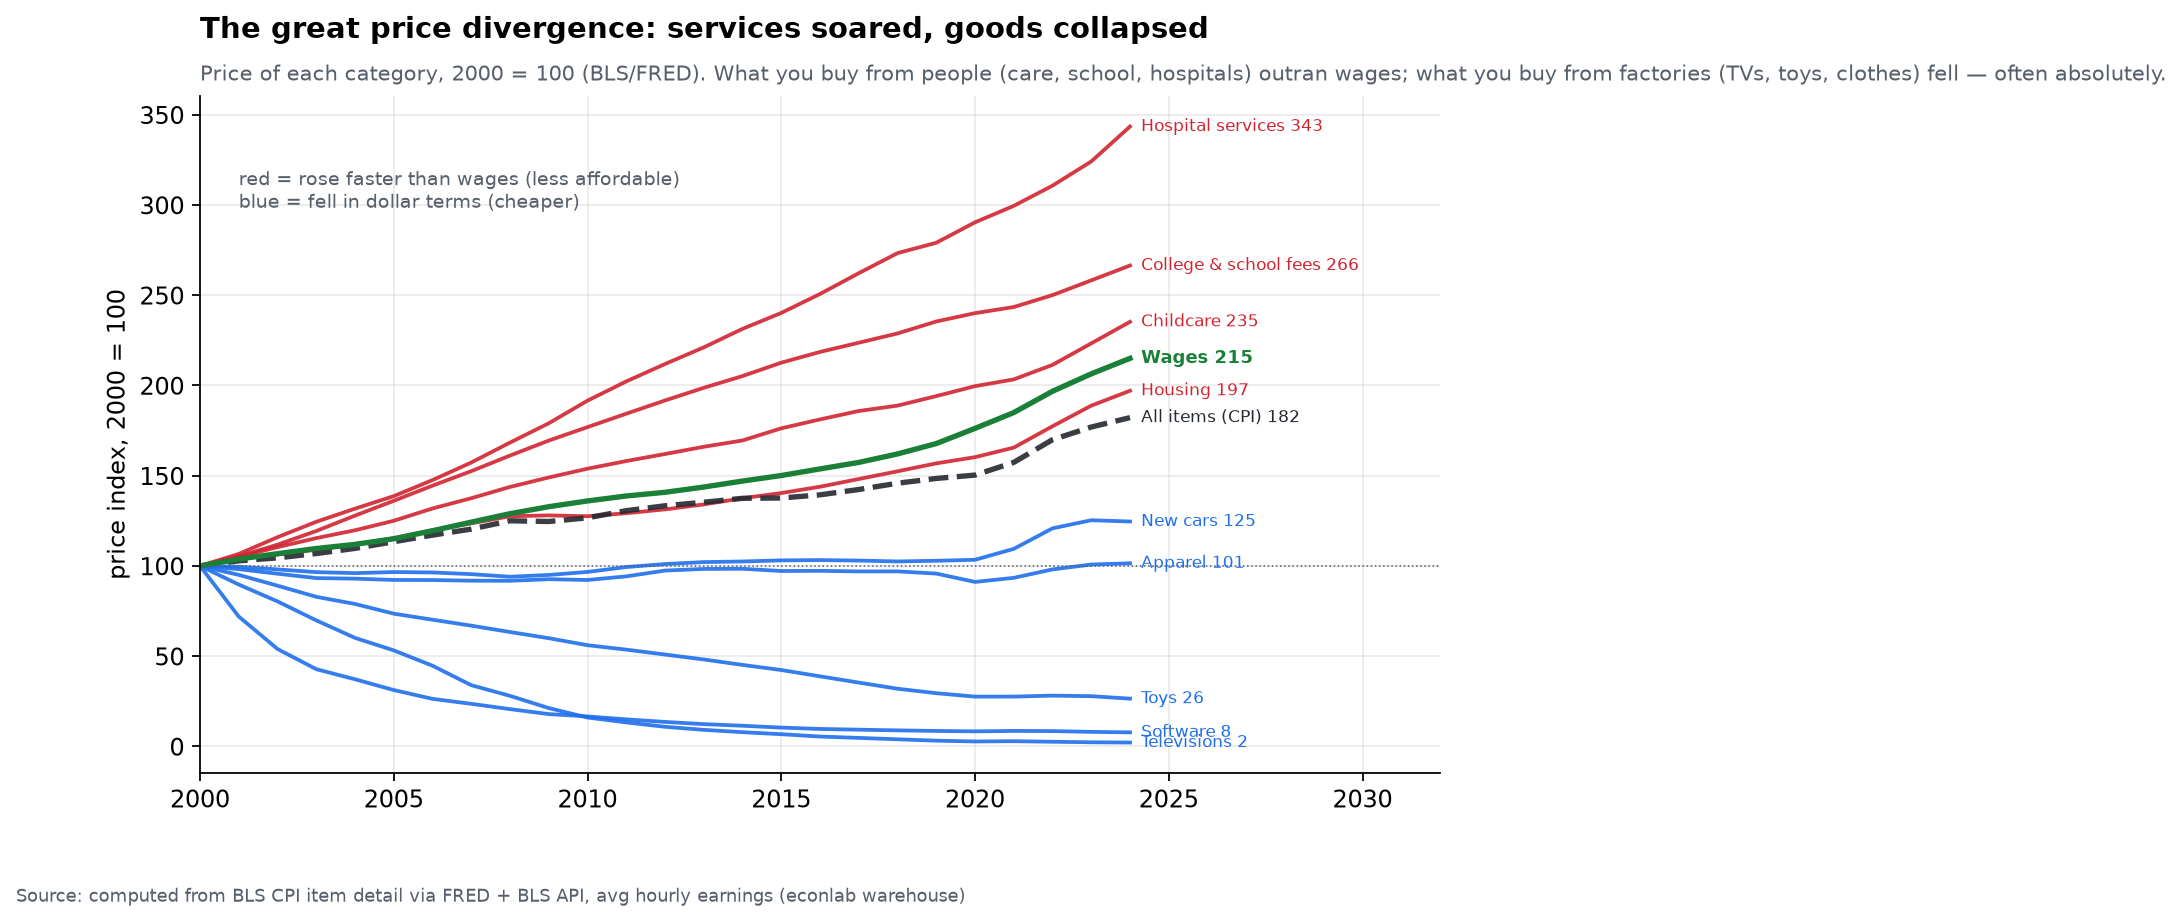
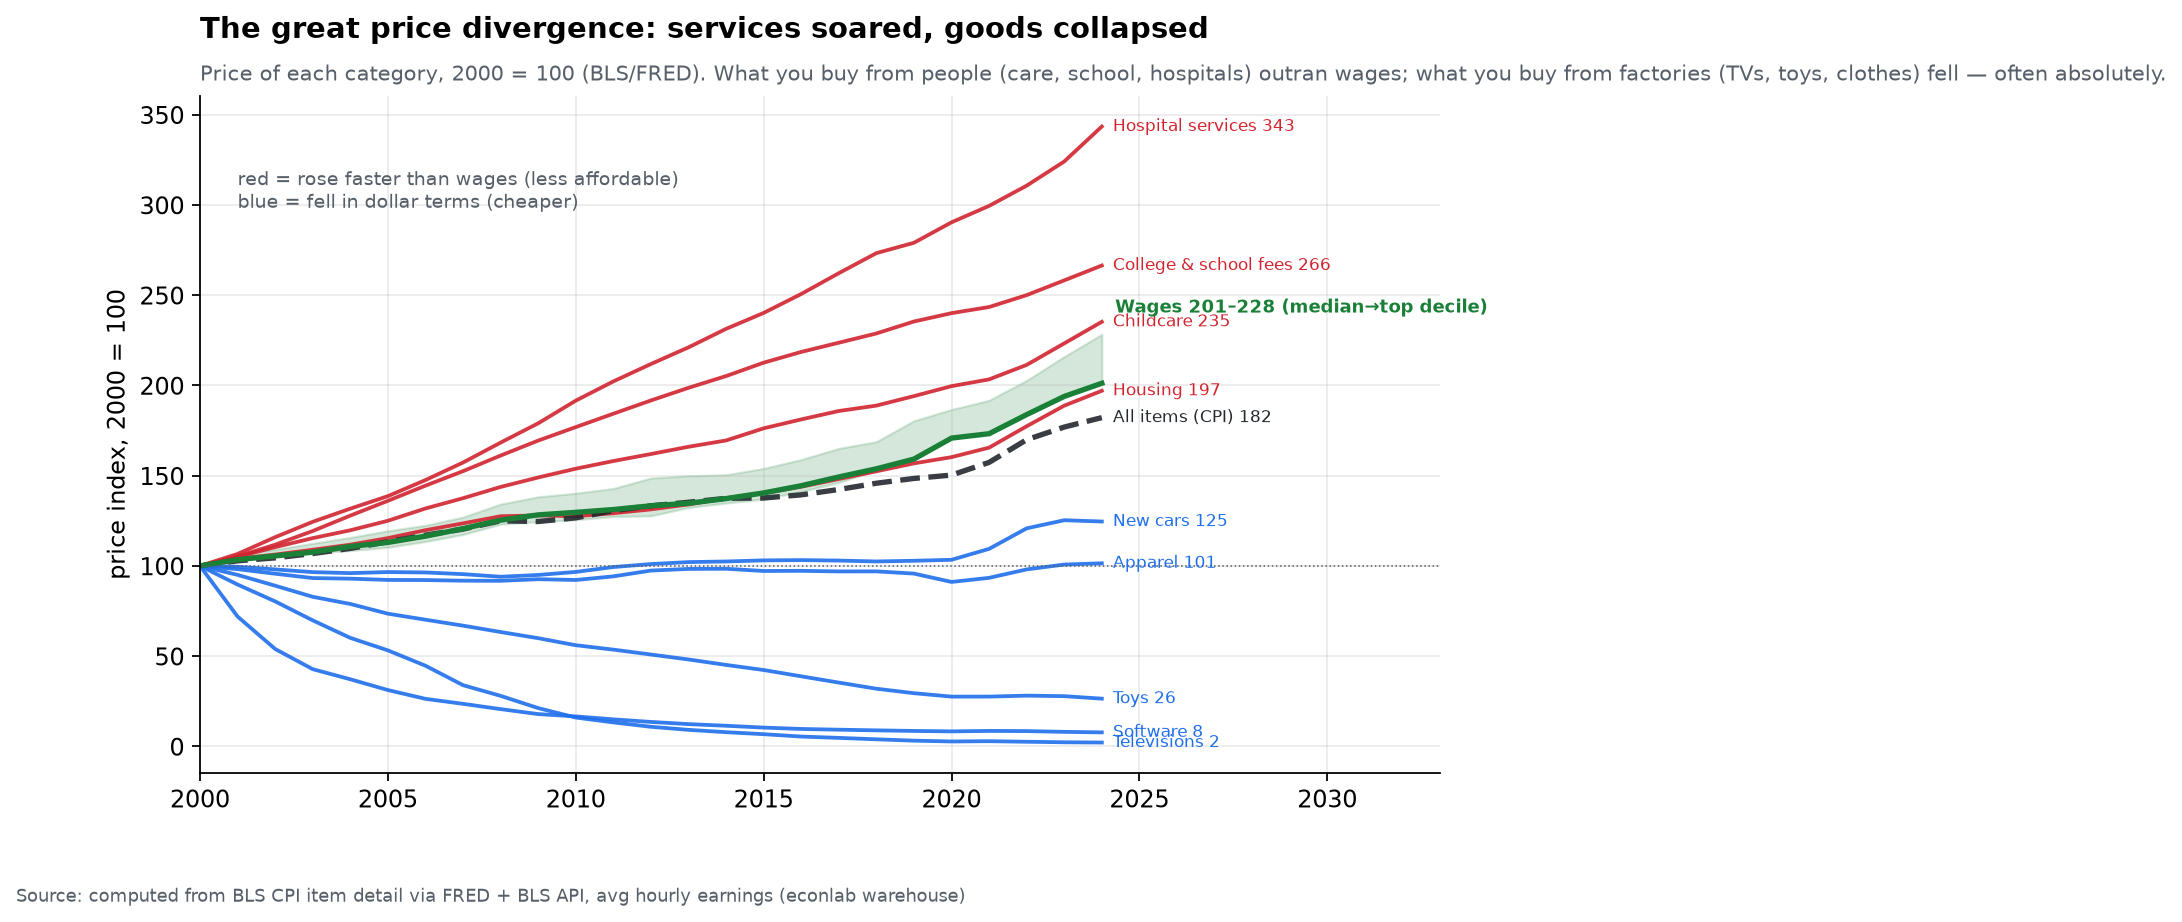
Ch9: split wages into quartiles across the figures and analysis
Added CPS usual-weekly-earnings percentiles (10/25/50/75/90th, full-time, all
workers) to FRED. Two integrations:

- F1 divergence: the single average-wage line is now the wage DISTRIBUTION --
  a green band (median 201 -> top decile 228, 2000=100) -- showing even the
  best-paid workers' wages sit below childcare/college/hospital.
- New F2 fig_wage_quartiles: real wage by percentile vs the real price of
  care. Two corrections to folklore, both computed: (1) nominal growth was
  U-shaped -- median grew slowest (+101%) vs 10th (+114%) and 90th (+128%);
  (2) real wages did NOT stagnate -- every percentile gained (median +10% to
  top decile +25% since 2000). But the punchline: real childcare +29%,
  college +46%, hospital +89% -- NO wage quartile, not even the top decile,
  kept up with care. That is the precise statement of the affordability crisis.

Existing F2-F4 renumbered F3-F5; cross-refs fixed. 1 new test (U-shape,
all-quartiles-real-positive, top>median, nobody-beats-care). 115 green;
12 chapters, 68 figures; recompiled 19.0MB.

diff --git a/src/econlab/analysis/ch09_cost.py b/src/econlab/analysis/ch09_cost.py
@@ -59,6 +59,35 @@ def price_divergence(base: int = 2000) -> pd.DataFrame:
     return pd.DataFrame(cols).loc[base:2024]
 
 
+# full-time usual weekly earnings by percentile (CPS), the wage distribution
+WAGE_PCTILES = {
+    "10th": "fred/LEU0252911200A",
+    "25th": "fred/LEU0252911300A",
+    "Median": "fred/LEU0252881500A",
+    "75th": "fred/LEU0252911400A",
+    "90th": "fred/LEU0252911500A",
+}
+
+
+def wage_quartiles(base: int = 2000, real: bool = False) -> pd.DataFrame:
+    """Wage index by percentile, base=100. real=True deflates by CPI."""
+    cpi = annual("fred/CPIAUCSL")
+    cols = {}
+    for label, sid in WAGE_PCTILES.items():
+        s = annual(sid)
+        if real:
+            s = s / cpi * cpi.loc[base]
+        cols[label] = (s / s.loc[base] * 100).loc[base:2024]
+    return pd.DataFrame(cols)
+
+
+def real_price_index(series_id: str, base: int = 2000) -> pd.Series:
+    """A price series deflated by CPI, base=100 (real relative price)."""
+    cpi = annual("fred/CPIAUCSL")
+    s = annual(series_id) / cpi * cpi.loc[base]
+    return (s / s.loc[base] * 100).loc[base:2024]
+
+
 NECESSITIES = {
     "Rent": "fred/CUUR0000SEHA",
     "Groceries (food at home)": "fred/CUUR0000SAF11",
@@ -145,16 +174,50 @@ def fig_price_divergence() -> None:
                 ls="--" if kind == "ref" else "-", alpha=0.9)
         ax.annotate(f"{label} {s.iloc[-1]:.0f}", (s.index[-1], s.iloc[-1]), xytext=(5, 0),
                     textcoords="offset points", fontsize=7.8, color=color[kind], va="center")
-    w = d["Wages"].dropna()
-    ax.plot(w.index, w, lw=2.4, color="#1a7f37", label="Wages")
-    ax.annotate(f"Wages {w.iloc[-1]:.0f}", (w.index[-1], w.iloc[-1]), xytext=(5, 0),
-                textcoords="offset points", fontsize=8.2, color="#1a7f37", fontweight="bold", va="center")
-    ax.set_xlim(2000, 2032)
+    # the wage distribution as a green band (10th-90th pct) with the median line
+    wq = wage_quartiles()
+    lo, hi = wq[["10th", "25th", "Median", "75th", "90th"]].min(axis=1), wq[["10th", "25th", "Median", "75th", "90th"]].max(axis=1)
+    ax.fill_between(wq.index, lo, hi, color="#1a7f37", alpha=0.18, zorder=1)
+    ax.plot(wq.index, wq["Median"], lw=2.4, color="#1a7f37")
+    ax.annotate(f"Wages {wq['Median'].iloc[-1]:.0f}–{wq['90th'].iloc[-1]:.0f} (median→top decile)",
+                (wq.index[-1], hi.iloc[-1]), xytext=(6, 12),
+                textcoords="offset points", fontsize=8, color="#1a7f37", fontweight="bold", va="center")
+    ax.set_xlim(2000, 2033)
     ax.axhline(100, color="#57606a", lw=0.7, ls=":")
     ax.text(2001, 320, "red = rose faster than wages (less affordable)\nblue = fell in dollar terms (cheaper)",
             fontsize=8.5, color="#57606a", va="top")
     source_note(ax, "Source: computed from BLS CPI item detail via FRED + BLS API, avg hourly earnings (econlab warehouse)")
     save(fig, "09_price_divergence")
+
+
+def fig_wage_quartiles() -> None:
+    """Real wage growth by quartile vs the real price of care — who kept up."""
+    wq = wage_quartiles(real=True)
+    care = {"Childcare": "bls/childcare", "College & fees": "fred/CUUR0000SEEB",
+            "Hospital care": "fred/CUUR0000SEMD"}
+    reals = {k: real_price_index(v).iloc[-1] for k, v in care.items()}
+    print("[ch09] real wage 2000->2024 by pctile:", {k: round(wq[k].iloc[-1]) for k in WAGE_PCTILES})
+    print("[ch09] real care prices 2024:", {k: round(v) for k, v in reals.items()})
+
+    fig, ax = new_fig(
+        "Wages by quartile: everyone gained, the top gained most — nobody kept up with care",
+        subtitle="Real (inflation-adjusted) usual weekly earnings by percentile, 2000 = 100 (BLS CPS). Even the top decile's "
+        "+25% trailed the real rise in childcare, college, and hospital care (dashed).",
+        ylabel="real wage index, 2000 = 100",
+    )
+    shades = {"10th": "#9a6700", "25th": "#0969da", "Median": "#1a7f37", "75th": "#1f6feb", "90th": "#8250df"}
+    for label, c in shades.items():
+        s = wq[label].dropna()
+        lw = 2.6 if label == "Median" else 1.8
+        ax.plot(s.index, s, lw=lw, color=c, label=f"{label} ({s.iloc[-1]:.0f})")
+    for k, v in reals.items():
+        ax.axhline(v, color="#d1242f", lw=1, ls="--", alpha=0.7)
+        ax.annotate(f"{k} +{v-100:.0f}%", (2000.3, v), fontsize=8, color="#d1242f", va="bottom")
+    ax.axhline(100, color="#57606a", lw=0.7, ls=":")
+    ax.set_xlim(2000, 2028)
+    ax.legend(fontsize=8.5, loc="lower right", title="wage percentile (2024 index)", title_fontsize=8)
+    source_note(ax, "Source: computed from BLS CPS usual weekly earnings percentiles + CPI-deflated CPI item detail (econlab warehouse)")
+    save(fig, "09_wage_quartiles")
 
 
 def fig_necessities() -> None:
@@ -273,6 +336,7 @@ def fig_inflation_inequality() -> None:
 
 def main() -> None:
     fig_price_divergence()
+    fig_wage_quartiles()
     fig_necessities()
     fig_housing()
     fig_inflation_inequality()

diff --git a/tests/test_sanity.py b/tests/test_sanity.py
@@ -305,6 +305,22 @@ def test_ch9_price_divergence(con):
     assert d["Apparel"] < 130               # apparel ~flat in dollars
 
 
+def test_ch9_wage_quartiles(con):
+    from econlab.analysis.ch09_cost import wage_quartiles, real_price_index
+
+    nom = wage_quartiles().iloc[-1]          # 2024, 2000=100 nominal
+    # U-shape: median grew slowest, top and bottom faster
+    assert nom["Median"] < nom["10th"] and nom["Median"] < nom["90th"]
+    assert nom["90th"] > 220                 # top decile ~228
+    real = wage_quartiles(real=True).iloc[-1]
+    assert (real > 100).all()                # every percentile gained real ground
+    assert real["90th"] > real["Median"]     # top gained most
+    # nobody kept up with care: top decile real gain < real childcare/college/hospital
+    childcare_real = real_price_index("bls/childcare").iloc[-1]
+    hospital_real = real_price_index("fred/CUUR0000SEMD").iloc[-1]
+    assert real["90th"] < childcare_real < hospital_real
+
+
 def test_ch9_groceries_vs_wages(con):
     from econlab.analysis.ch09_cost import necessities_vs_wages
 

diff --git a/src/econlab/sources/fred.py b/src/econlab/sources/fred.py
@@ -60,6 +60,12 @@ SERIES_IDS = [
     "TERMCBAUTO48NS",   # avg 48-mo auto loan rate
     # land & housing
     "RHORUSQ156N",      # homeownership rate, % of households
+    # wage distribution — full-time usual weekly earnings by percentile (CPS)
+    "LEU0252911200A",   # first decile (10th pct)
+    "LEU0252911300A",   # first quartile (25th pct)
+    "LEU0252881500A",   # median (50th pct), 1979->
+    "LEU0252911400A",   # third quartile (75th pct)
+    "LEU0252911500A",   # ninth decile (90th pct)
     # --- cost of living: CPI components ("what things cost" chapter) ---
     # big aggregates (SA, long history)
     "CPIHOSSL",         # housing

diff --git a/report/09-cost-of-living.md b/report/09-cost-of-living.md
@@ -2,8 +2,9 @@
 
 *World Economy Lab. Generated 2026-07-19; module `econlab/analysis/ch09_cost.py`,
 findings pinned by tests. Sources: BLS CPI item detail (via FRED and the BLS
-API), FHFA & Census house prices, average hourly earnings, and the BLS
-Consumer Expenditure Survey for spending shares.*
+API), FHFA & Census house prices, average hourly earnings and CPS usual-weekly-
+earnings percentiles, and the BLS Consumer Expenditure Survey for spending
+shares.*
 
 **The questions.** Forget the single inflation number on the news. What has
 actually happened to the price of the things a person *cannot avoid buying* —
@@ -34,7 +35,7 @@ picture in this chapter emerges — a fan that splits cleanly in two:
 | Hospital services | **343** |
 | College & school fees | 266 |
 | Childcare | 235 |
-| **Average wage** | **215** |
+| **Wages (median → top decile)** | **201 → 228** |
 | Housing | 197 |
 | All items (CPI) | 182 |
 | New cars | 125 |
@@ -43,10 +44,12 @@ picture in this chapter emerges — a fan that splits cleanly in two:
 | Software | 8 |
 | **Televisions** | **2** |
 
-The line that divides them is the wage (215). **Everything you buy from
-*people* — hospital care, schooling, childcare — rose faster than the
-paycheck. Everything you buy from *factories* — cars, clothes, toys,
-electronics — fell behind it, and much of it fell *absolutely*.** A
+The dividing band is the wage distribution — its median grew to 201, its top
+decile to 228 (the green band; the whole distribution, and why it is a *band*,
+is F2). **Everything you buy from *people* — hospital care, schooling,
+childcare — rose faster than even the best-paid workers' wages. Everything you
+buy from *factories* — cars, clothes, toys, electronics — fell behind, and
+much of it fell *absolutely*.** A
 television costs about **1/50th** of its 2000 price (quality-adjusted);
 software an eighth; toys a quarter; a shirt costs literally the same number
 of dollars it did in 2000, which after two decades of wage growth means it
@@ -62,7 +65,47 @@ labor-intensive human services, which can't be offshored or automated, ride
 wages up. What you can put in a shipping container got cheaper; what requires
 a person in the room got dearer.
 
-## F2 — The staples mostly held the line against the paycheck
+## F2 — Wages by quartile: everyone gained, the top gained most, nobody kept up with care
+
+![Wages by quartile](figures/09_wage_quartiles.png)
+
+"The wage" is a fiction — there are many wages, and splitting the paycheck
+into percentiles (full-time usual weekly earnings, BLS CPS) changes the story
+twice. Indexed to 2000:
+
+| Wage percentile | Nominal 2024 | **Real 2024** |
+|---|---|---|
+| 10th (bottom) | 214 | +17% |
+| 25th | 207 | +14% |
+| **Median (50th)** | **201** | **+10%** |
+| 75th | 216 | +18% |
+| 90th (top) | 228 | **+25%** |
+
+**First correction — the middle grew slowest.** Nominal wage growth was
+*U-shaped*: the 10th percentile (+114%) and the 90th (+128%) both outran the
+**median (+101%)**. The bottom's gain is recent and real — the 2020–2023 labor
+market compressed the distribution, lifting low wages fastest — but across the
+full quarter-century the pattern is a hollowed middle, wage polarization made
+visible.
+
+**Second correction — real wages did *not* stagnate.** Deflated by CPI, *every*
+percentile gained purchasing power: from **+10% (median)** to **+25% (top
+decile)** over 2000–2024. The popular claim that "wages have gone nowhere for
+decades" is, at least since 2000 and at least in cash earnings, simply false —
+the gains are just modest and tilted to the top (the 90th percentile gained
+2.5× what the median did).
+
+**But — nobody kept up with care.** Here is the number that matters. In *real*
+terms (dashed lines on the chart), childcare rose **+29%**, college **+46%**,
+and hospital care **+89%** over the same window. **Even the top decile's +25%
+real wage gain fell short of all three.** For a median worker (+10%) or a
+25th-percentile worker (+14%), childcare alone (+29% real) swallowed the entire
+raise and more. This is the precise, defensible statement of the
+"affordability crisis": it is not that wages fell, and not that everything got
+dearer — it is that **the specific services a family cannot forgo outran the
+income gains of every group, top to bottom.**
+
+## F3 — The staples mostly held the line against the paycheck
 
 ![Necessities](figures/09_necessities.png)
 
@@ -87,12 +130,12 @@ line is dominated by *volatility* — the 1970s shocks, 2008, 2022 — not a
 trend; it ends only modestly ahead of wages.
 
 So the felt "cost-of-living crisis" is **not** mainly in these CPI staples.
-It is concentrated exactly where F1 said: in **home prices** (not rent —
-prices; see F3), **healthcare, childcare, and college**. The squeeze is real,
+It is concentrated exactly where F1 and F2 said: in **home prices** (not rent —
+prices; see F4), **healthcare, childcare, and college**. The squeeze is real,
 but it is specific, and mistaking it for across-the-board unaffordability
 misreads what the data shows.
 
-## F3 — Housing: the biggest line item, and the location story
+## F4 — Housing: the biggest line item, and the location story
 
 ![Housing](figures/09_housing.png)
 
@@ -105,7 +148,7 @@ the map.
 the house itself barely changed. And the **price-to-income ratio** climbed
 from ~3.6 (mid-1980s) to **5.0** today: the median home costs five years of
 median household income, up from three and a half. This — not rent CPI — is
-the homebuyer's squeeze, and it is why F2's renters and F3's buyers
+the homebuyer's squeeze, and it is why F3's renters and this section's buyers
 experience "housing cost" so differently.
 
 **The location.** Indexed to 1990, state house prices fan out enormously.
@@ -118,7 +161,7 @@ and a quiet engine of the wealth gaps in Chapter 5 (home equity is the bottom
 half's main asset, and its growth depended entirely on which state you bought
 in).
 
-## F4 — Inflation is not one number: the poor and the rich buy different baskets
+## F5 — Inflation is not one number: the poor and the rich buy different baskets
 
 ![Inflation inequality](figures/09_inflation_inequality.png)
 

diff --git a/report/00-the-lab.md b/report/00-the-lab.md
@@ -72,7 +72,7 @@ produced a real error during construction):
 
 ## The inventory (live)
 
-29 sources · **2,961 series** · **14.96M observations** · 9,922 entities ·
+29 sources · **2,966 series** · **14.96M observations** · 9,922 entities ·
 year 1 CE → 2101. Plus relational sidecars that don't fit the long format:
 `trade` (856,827 bilateral flows), `billionaires`, `landowners`, and the
 dynasty tables (`dynasty_peaks`, `deep_survivors`, `royal_lines`).
@@ -126,9 +126,9 @@ uv run econ search "gdp per capita"         # full-text over the catalog
 uv run econ get maddison/gdppc -e USA -e CHN --start 1900
 uv run econ sql "SELECT ..."                # read-only DuckDB
 uv run econ coverage                        # what's inside
-uv run econ figures                         # regenerate all 67 report figures
+uv run econ figures                         # regenerate all 68 report figures
 uv run econ compile                         # -> report/world-economy-report.html
-uv run pytest                               # 114 tests: findings must reproduce
+uv run pytest                               # 115 tests: findings must reproduce
 ```
 
 The same verbs are exposed to any Claude session as MCP tools

diff --git a/CLAUDE.md b/CLAUDE.md
@@ -95,7 +95,10 @@ structural-forces · **09 what-things-cost** · 10 dynasties · 11 synthesis
 (capstone, live dashboard). **2026-07-19c: inserted Ch09 cost-of-living**
 (BLS/FRED CPI item detail + new `bls` source; the goods-vs-services price
 divergence, staples-vs-wages, housing by state, inflation-inequality by
-income) — dynasties/synthesis shifted 09/10→10/11 (cycle-free descending).
+income; **F2 wages-by-quartile** — CPS usual-weekly-earnings percentiles,
+real wage by quartile vs real care prices: median +10%/top-decile +25% real
+2000→24 but NO quartile kept up with childcare +29%/college +46%/hospital
++89%) — dynasties/synthesis shifted 09/10→10/11 (cycle-free descending).
 Figure files, analysis modules (`analysis/chNN_*.py`), and test names all
 share the chapter number — if you renumber chapters, rename all three
 together (the 2026-07-19 reorg did exactly this; see that commit for the

diff --git a/README.md b/README.md
@@ -74,7 +74,7 @@ whenever the data refreshes.
 ```bash
 uv sync
 uv run econ refresh          # ~6GB of primary data -> warehouse
-uv run pytest                # 114 benchmark tests must pass
+uv run pytest                # 115 benchmark tests must pass
 uv run econ figures          # regenerate report figures
 uv run econ search "debt"    # explore the catalog
 ```
@@ -96,7 +96,7 @@ file with navigation, dashboard, and year-slider maps.
 - **Question-driven expansion ✅** — the debt ledger, balance sheets of
   power, who owns the land (county-level values, year-slider maps), and
   dynasties (Rothschild/Fugger/Medici ledgers, deep-time survivors, the
-  crowns of Europe) — now 29 sources, ~15.0M obs, 67 figures, 114 tests
+  crowns of Europe) — now 29 sources, ~15.0M obs, 68 figures, 115 tests
 - **2026-07-19** — editorial reorg into a deliberate arc (evidence →
   synthesis last), then a Wave 1–3 depth pass: the thinnest chapters
   rebuilt question-driven, +2 sources (COFER reserve currencies, World